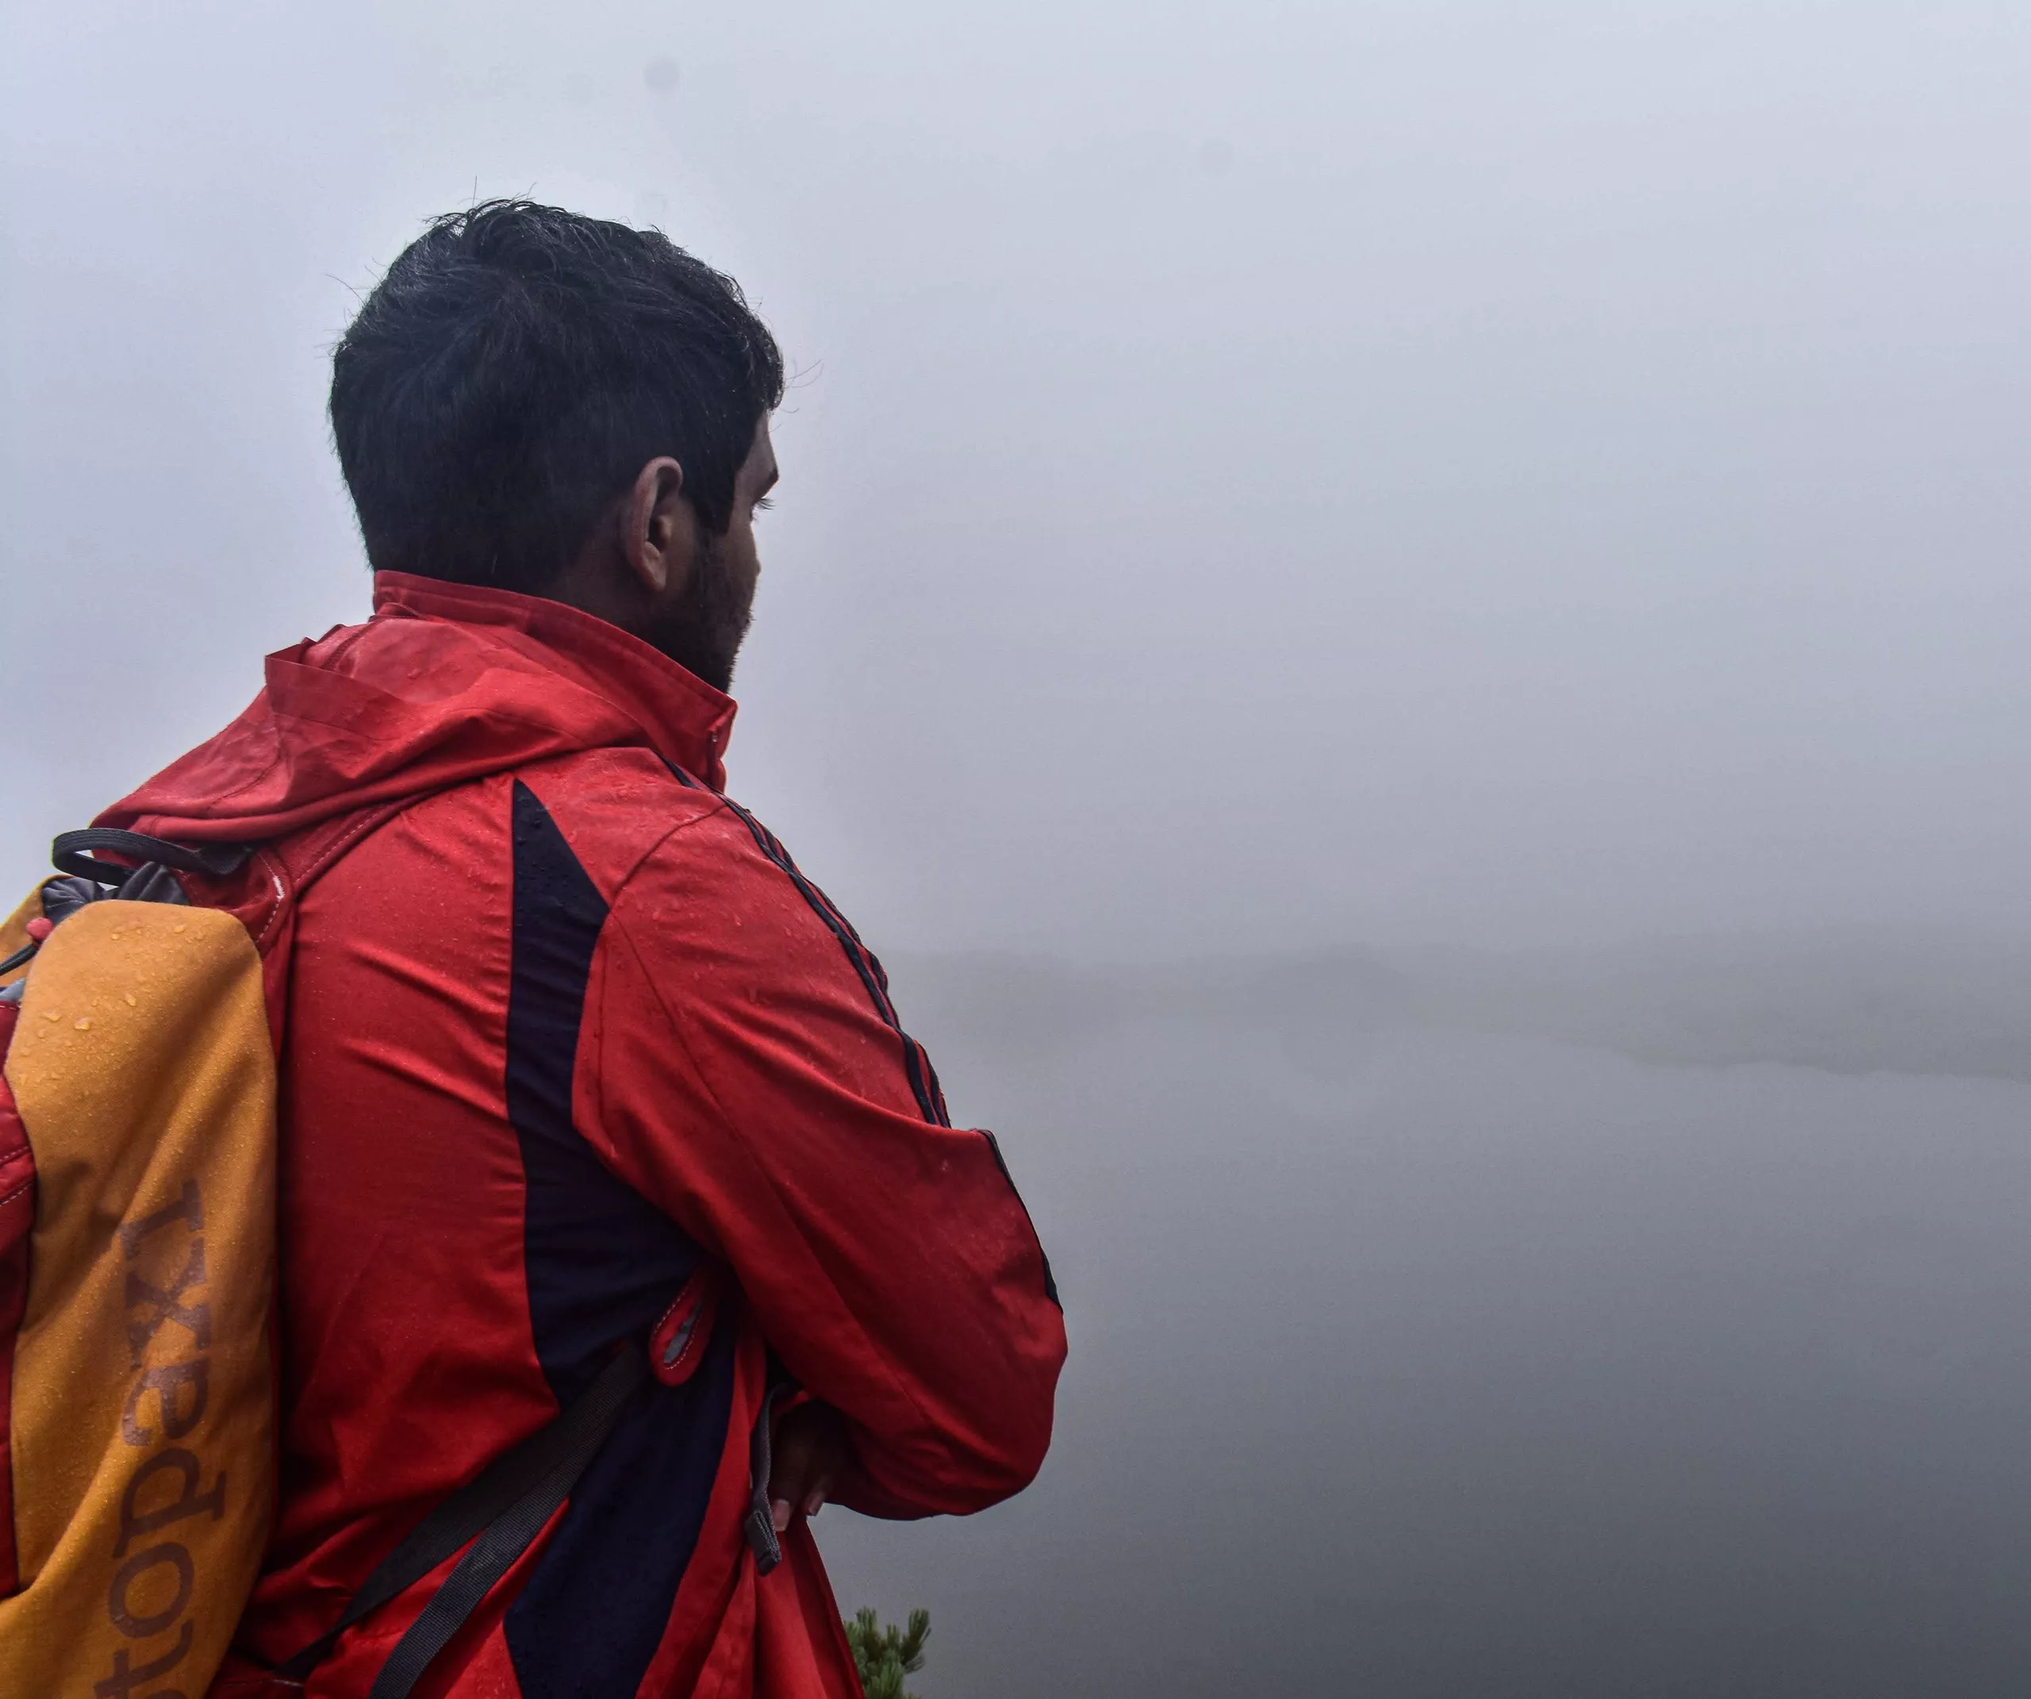
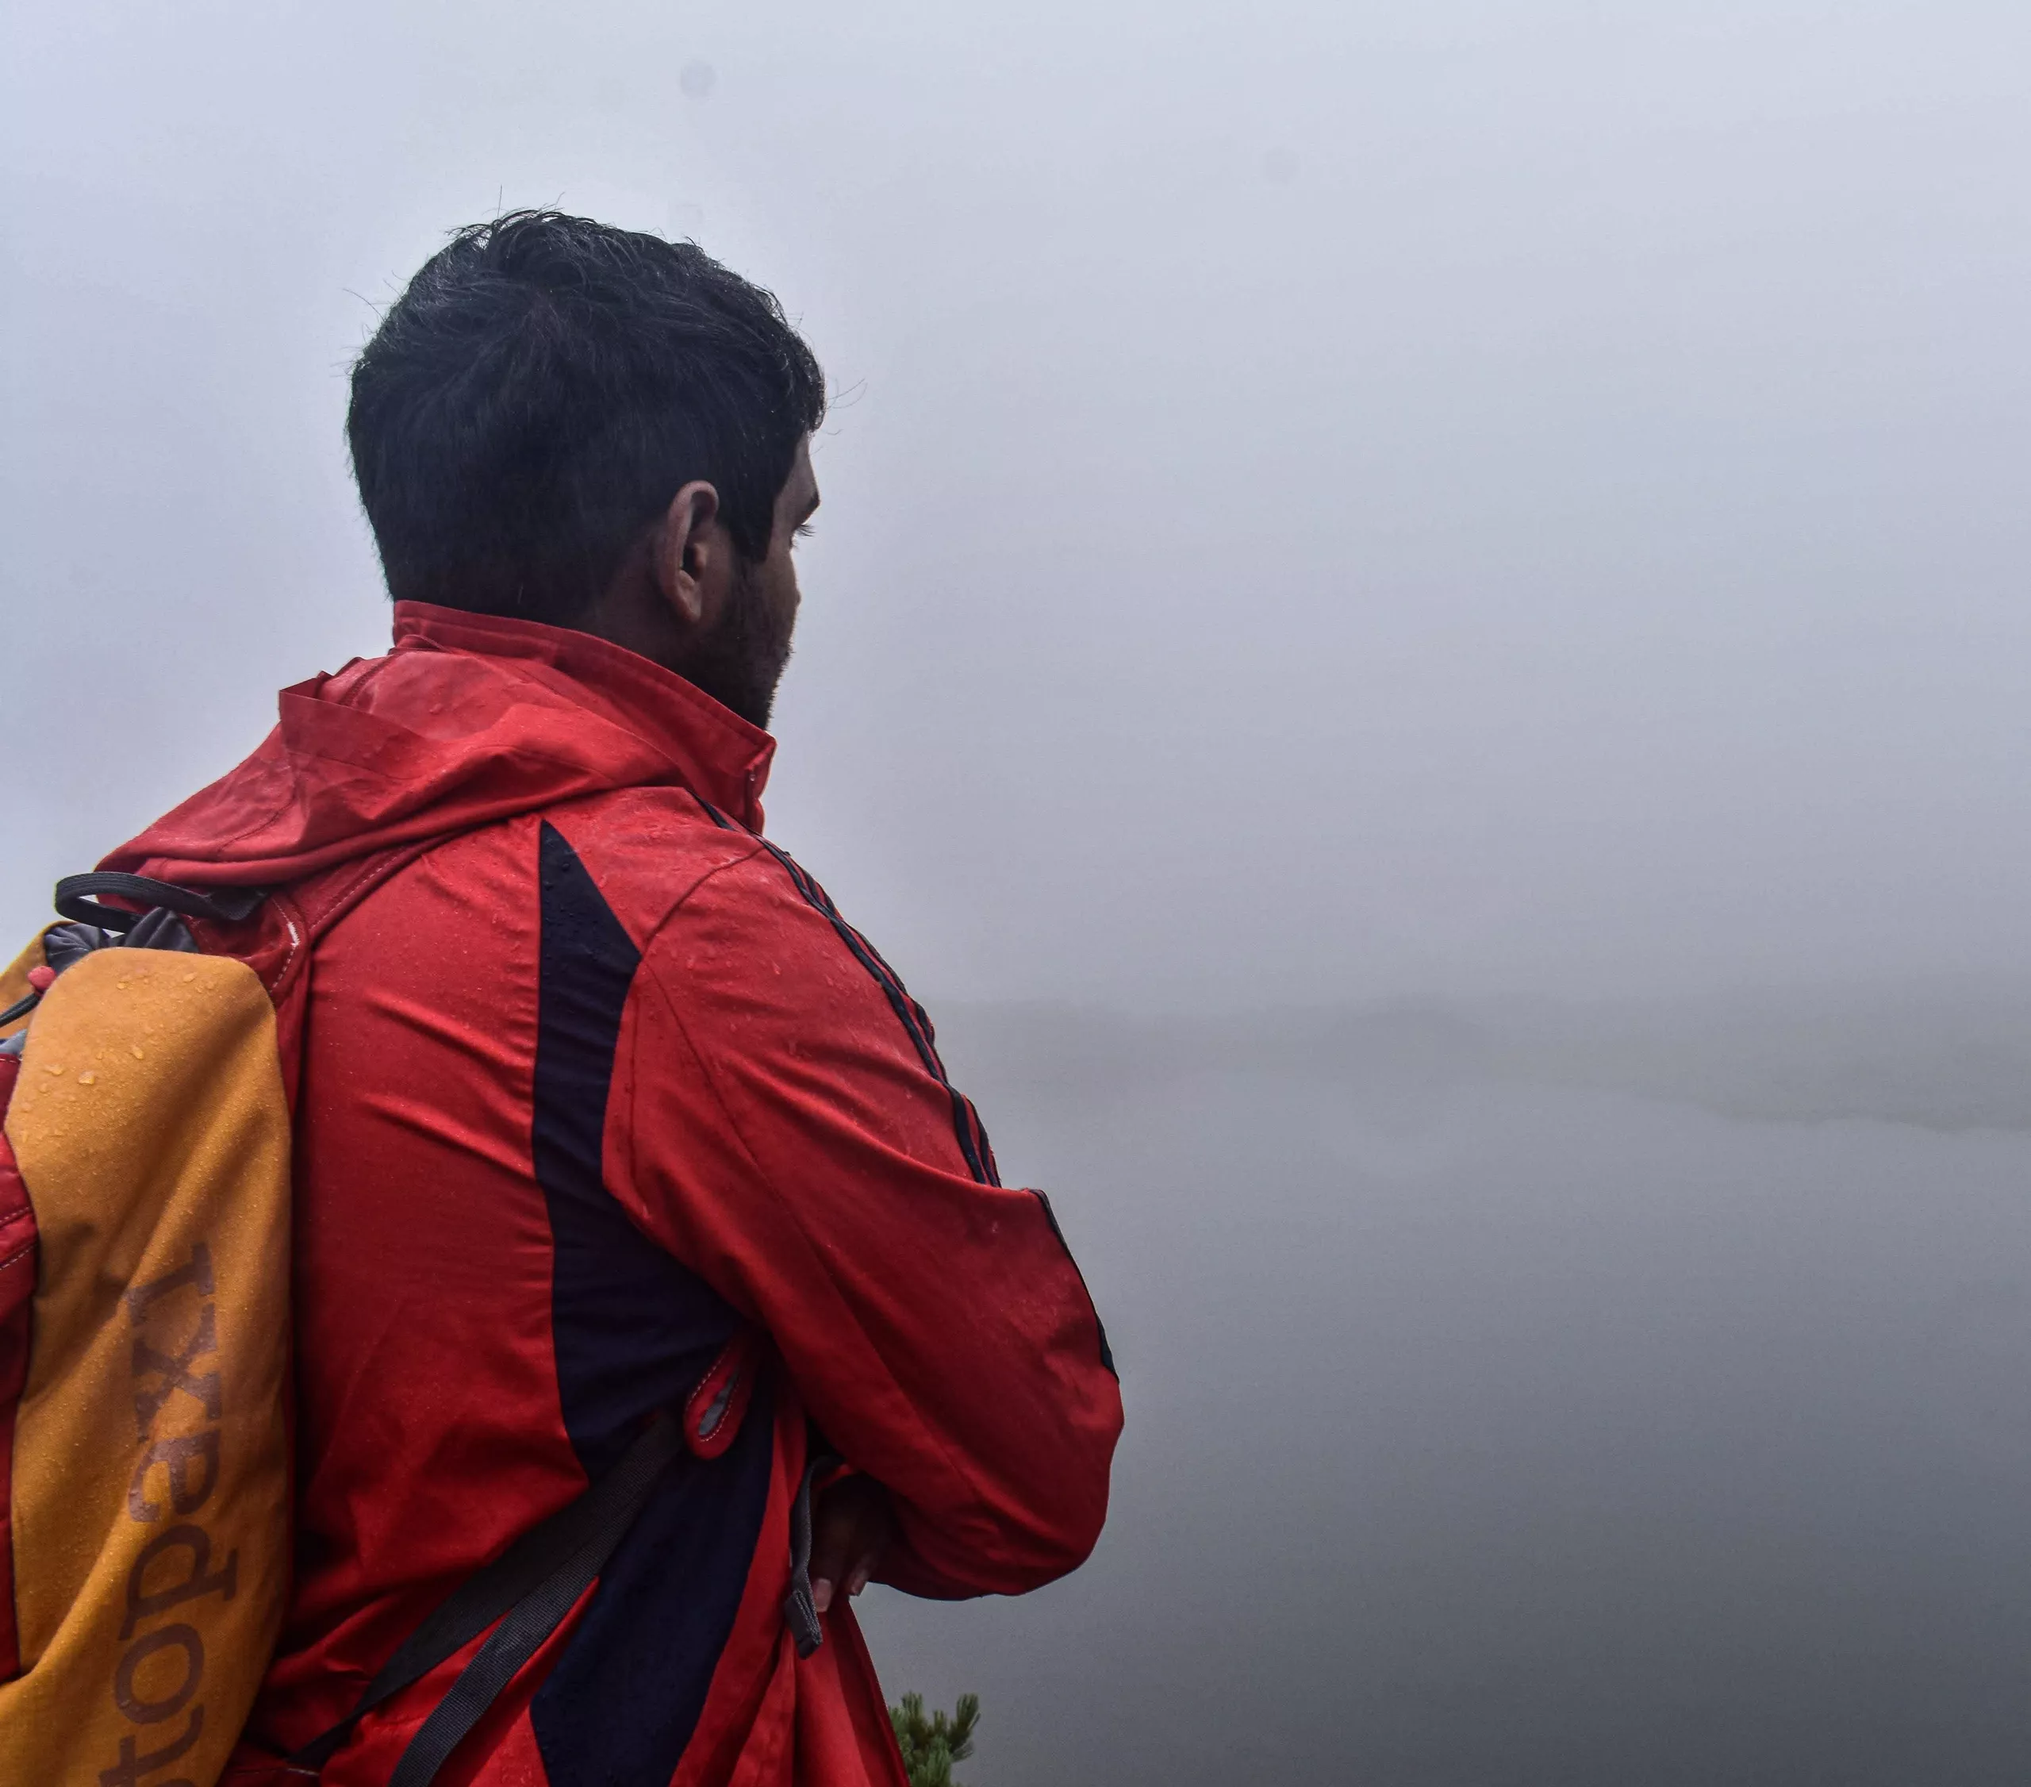
Updates imagery on About Me to eliminate whitespace below images

Changed region(s): [[0.0, 0.0925, 0.5625, 1.0], [0.0312, 0.9865, 0.0625, 1.0]]

diff --git a/aboutme.html b/aboutme.html
@@ -81,7 +81,7 @@
 						<section id="two" class="spotlights">
 							<section>
 								<a href="generic.html" class="image">
-									<img src="images/code.webp"alt="" data-position="center center" />
+									<img src="images/code2.webp"alt="" data-position="center center" />
 								</a>
 								<div class="content">
 									<div class="inner">
